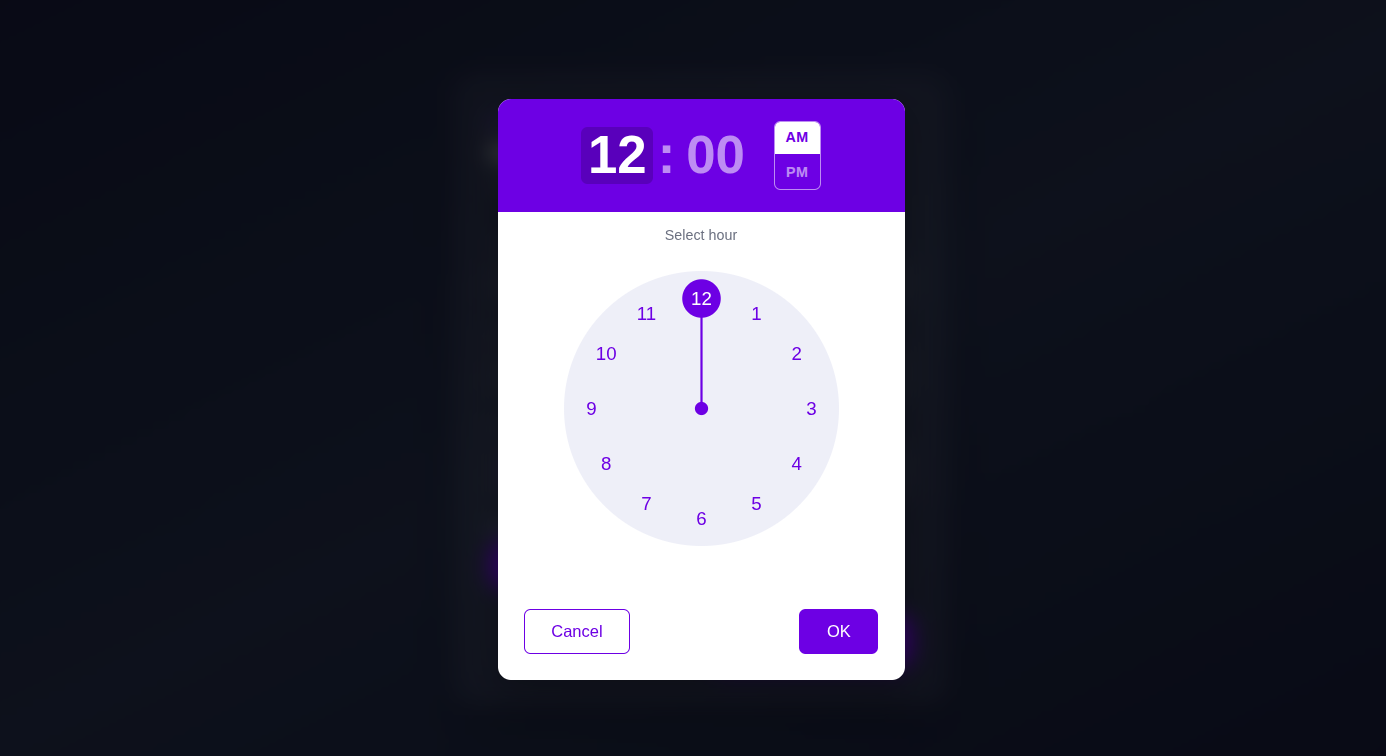
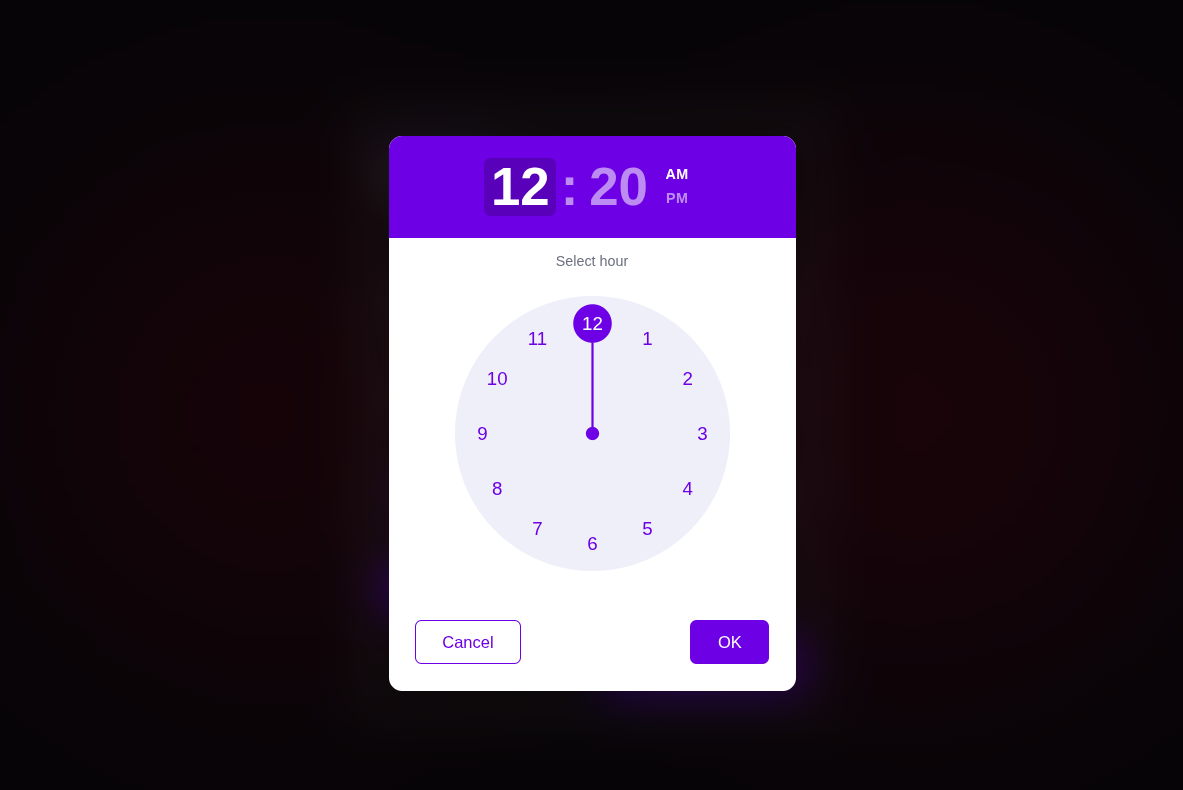
feat: refine AM/PM styling and update preview background

diff --git a/src/styles.css b/src/styles.css
@@ -72,7 +72,7 @@
   display: flex;
   justify-content: center;
   align-items: center;
-  gap: 8px;
+  gap: 0;
   padding: 20px 24px;
   background: var(--ctp-header-bg);
   border-radius: var(--ctp-radius) var(--ctp-radius) 0 0;
@@ -114,10 +114,7 @@
   display: flex;
   flex-direction: column;
   gap: 2px;
-  margin-left: 12px;
-  border: 1.5px solid rgba(255, 255, 255, 0.55);
-  border-radius: 6px;
-  overflow: hidden;
+  margin-left: 0;
 }
 
 /* Inactive AM/PM: transparent bg, muted white text */
@@ -125,7 +122,7 @@
   font-size: 13px;
   font-weight: 600;
   cursor: pointer;
-  padding: 5px 10px;
+  padding: 0 10px;
   color: rgba(255, 255, 255, 0.55);
   background: transparent;
   border: none;
@@ -134,10 +131,10 @@
   letter-spacing: 0.03em;
 }
 
-/* Active AM/PM: solid white background with accent text — unmistakably selected */
+/* Active AM/PM: full white text, no background */
 .ctp-ampm-btn--active {
-  background: #ffffff;
-  color: var(--ctp-accent);
+  background: transparent;
+  color: #ffffff;
 }
 
 .ctp-subtitle {
@@ -151,7 +148,7 @@
   display: flex;
   flex-direction: column;
   align-items: center;
-  padding: 0 24px 24px;
+  padding: 0 24px 10px;
 }
 
 .ctp-face {